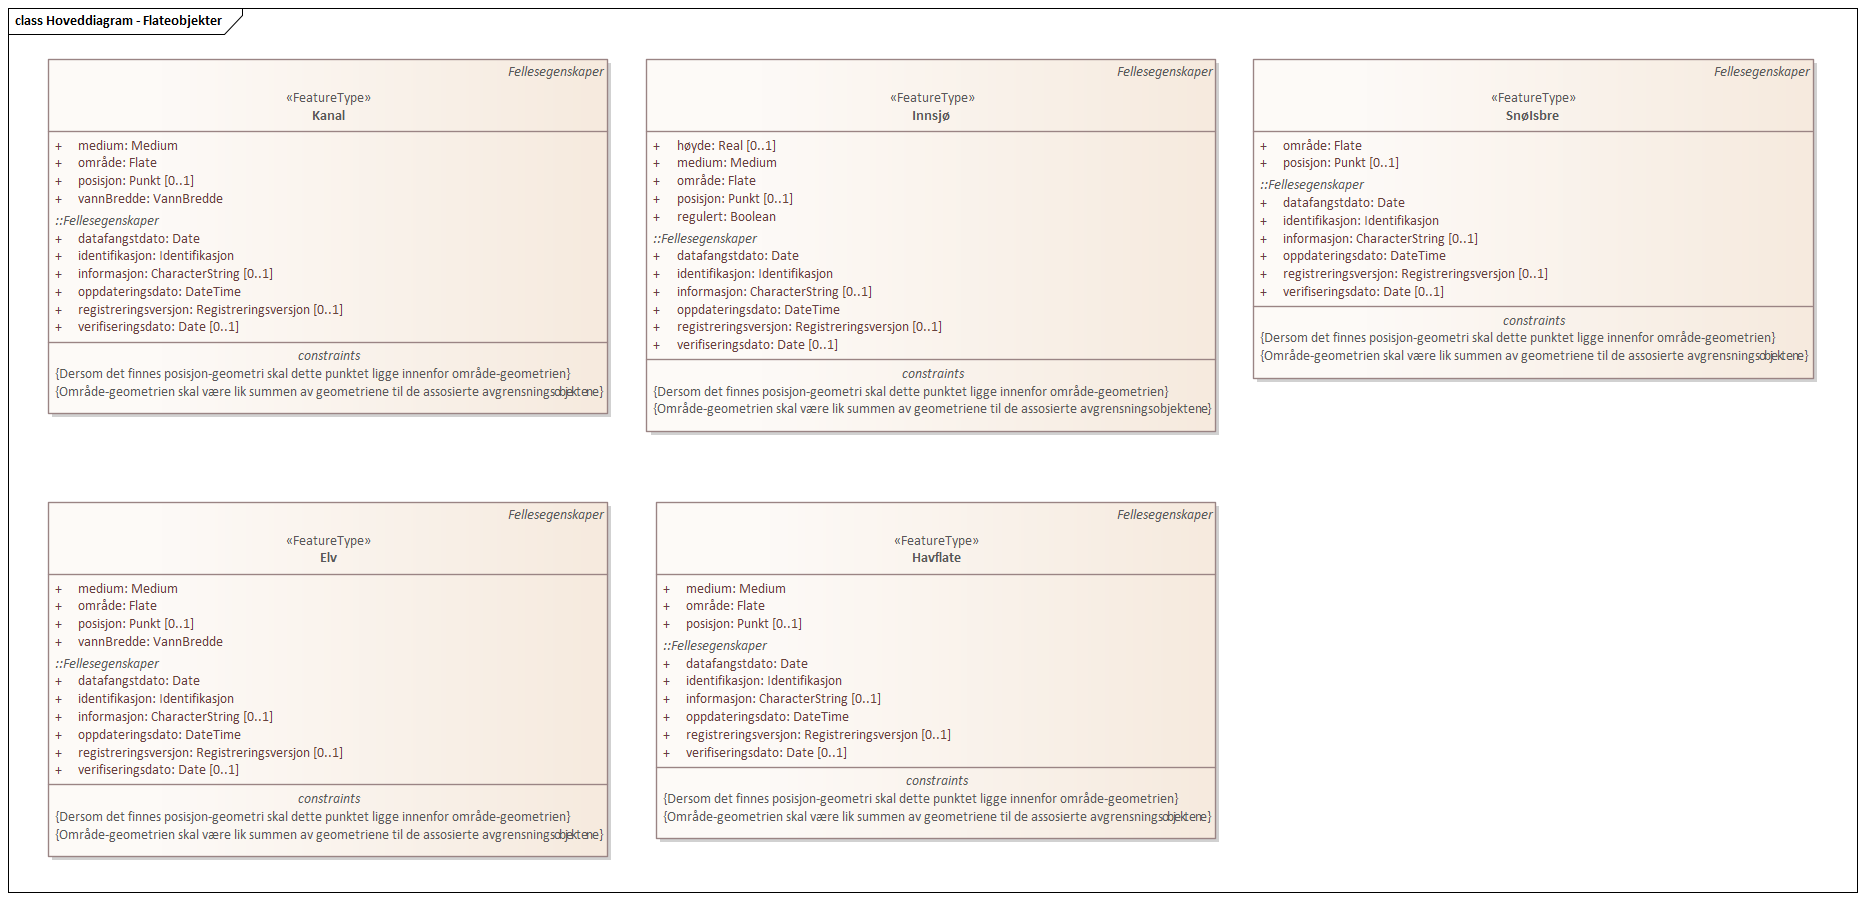
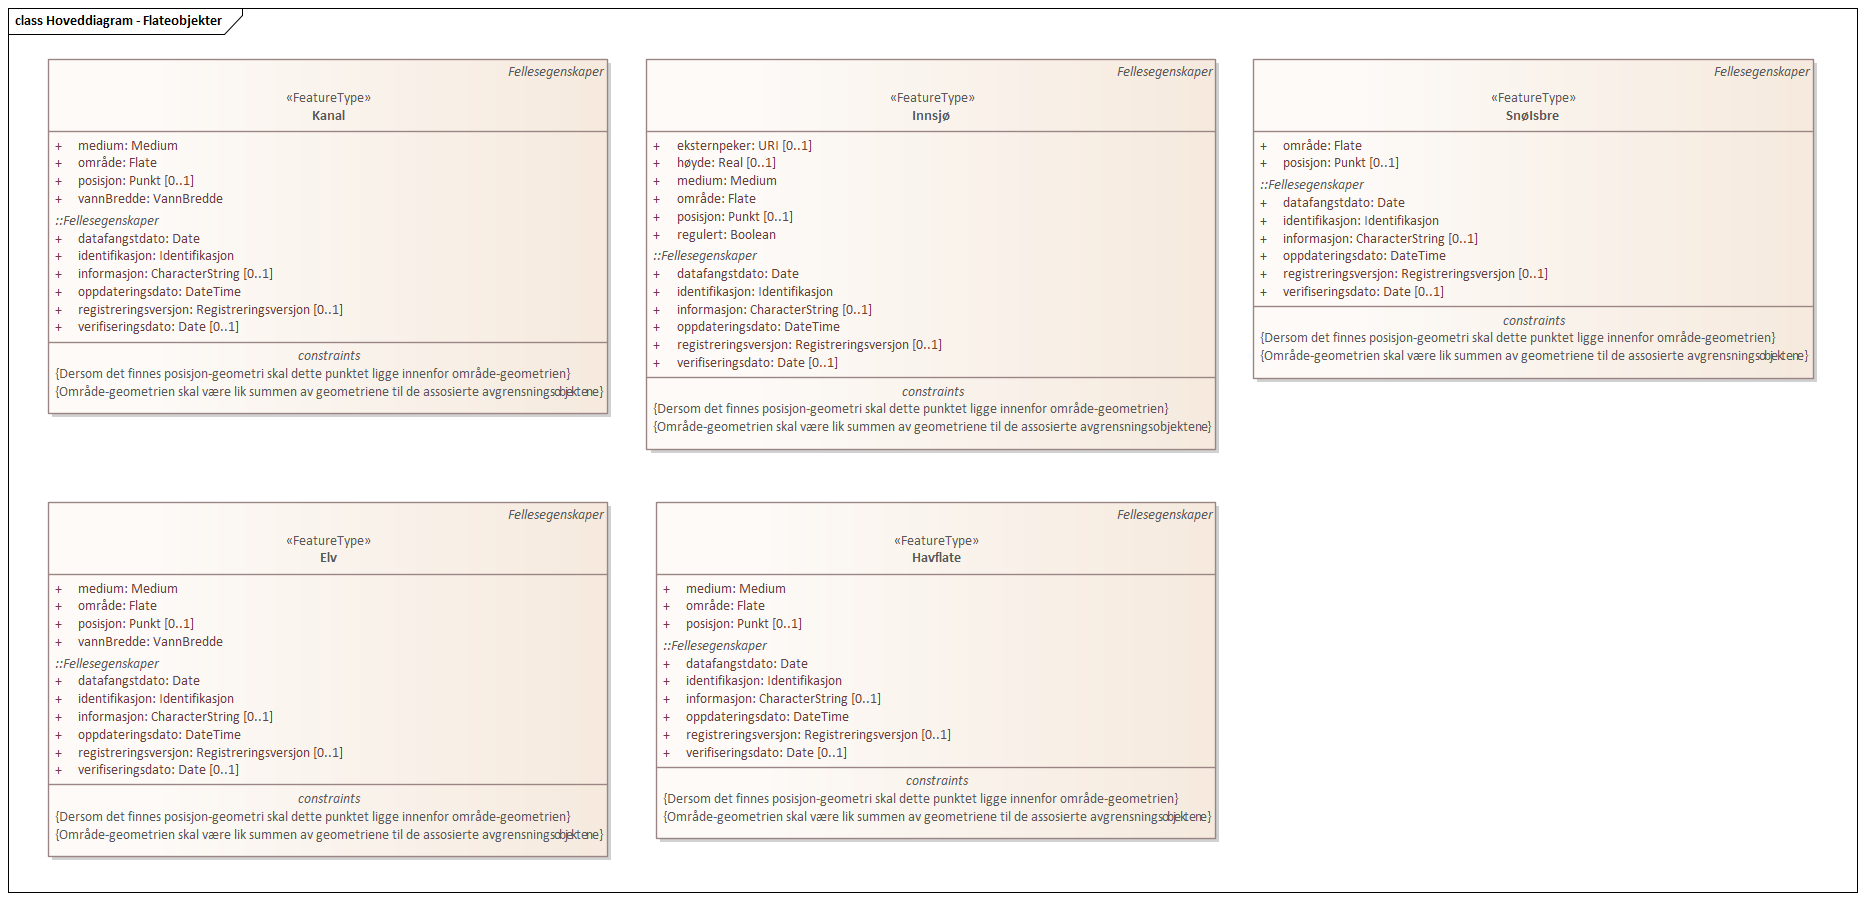
Lagt til eksternpeker på objekttype Innsjø.

Changed region(s): [[0.3419, 0.1554, 0.6527, 0.5283]]

diff --git a/produktspesifikasjoner/vann/index.html b/produktspesifikasjoner/vann/index.html
@@ -766,6 +766,9 @@ Kystkonturen er en del av FKB-Vann og fra og med FKB-Vann versjon 4.6 forvaltes 
 <p>Egenskapen regulert (JA/NEI) er innført på objekttype Innsjø for å angi om en innsjø er oppdemt/regulert</p>
 </li>
 <li>
+<p>Egeneskapen eksterpeker er innført på objekttype Innsjø for å kunne peke til informasjon som ligger i andre systemer</p>
+</li>
+<li>
 <p>Etablert eksterne kodelister for kodeverdiene til egenskapene kystkonstruksjonstype, kystreferanse, vannBredde og vannSperretype</p>
 </li>
 </ul>
@@ -1199,6 +1202,12 @@ SOSI_navn: HØYDE<br></p></td>
 <td class="tableblock halign-left valign-top"><p class="tableblock">Type:</p></td>
 <td class="tableblock halign-left valign-top"><p class="tableblock">Medium</p></td>
 </tr>
+<tr>
+<td class="tableblock halign-left valign-top"><p class="tableblock">Profilparametre i tagged values:</p></td>
+<td class="tableblock halign-left valign-top"><p class="tableblock">SOSI_datatype: T<br>
+SOSI_lengde: 1<br>
+SOSI_navn: MEDIUM<br></p></td>
+</tr>
 </tbody>
 </table>
 <table class="tableblock frame-all grid-all stretch">
@@ -1363,6 +1372,12 @@ SOSI_navn: HØYDE<br></p></td>
 <tr>
 <td class="tableblock halign-left valign-top"><p class="tableblock">Type:</p></td>
 <td class="tableblock halign-left valign-top"><p class="tableblock">Medium</p></td>
+</tr>
+<tr>
+<td class="tableblock halign-left valign-top"><p class="tableblock">Profilparametre i tagged values:</p></td>
+<td class="tableblock halign-left valign-top"><p class="tableblock">SOSI_datatype: T<br>
+SOSI_lengde: 1<br>
+SOSI_navn: MEDIUM<br></p></td>
 </tr>
 </tbody>
 </table>
@@ -1535,6 +1550,12 @@ SOSI_navn: HØYDE<br></p></td>
 <tr>
 <td class="tableblock halign-left valign-top"><p class="tableblock">Type:</p></td>
 <td class="tableblock halign-left valign-top"><p class="tableblock">Medium</p></td>
+</tr>
+<tr>
+<td class="tableblock halign-left valign-top"><p class="tableblock">Profilparametre i tagged values:</p></td>
+<td class="tableblock halign-left valign-top"><p class="tableblock">SOSI_datatype: T<br>
+SOSI_lengde: 1<br>
+SOSI_navn: MEDIUM<br></p></td>
 </tr>
 </tbody>
 </table>
@@ -1717,6 +1738,12 @@ SOSI_navn: HØYDE<br></p></td>
 <td class="tableblock halign-left valign-top"><p class="tableblock">Type:</p></td>
 <td class="tableblock halign-left valign-top"><p class="tableblock">Medium</p></td>
 </tr>
+<tr>
+<td class="tableblock halign-left valign-top"><p class="tableblock">Profilparametre i tagged values:</p></td>
+<td class="tableblock halign-left valign-top"><p class="tableblock">SOSI_datatype: T<br>
+SOSI_lengde: 1<br>
+SOSI_navn: MEDIUM<br></p></td>
+</tr>
 </tbody>
 </table>
 <table class="tableblock frame-all grid-all stretch">
@@ -1816,7 +1843,7 @@ SOSI_navn: HØYDE<br></p></td>
 <td class="tableblock halign-left valign-top"><p class="tableblock">Profilparametre i tagged values:</p></td>
 <td class="tableblock halign-left valign-top"><p class="tableblock">SOSI_datatype: H<br>
 SOSI_lengde: 1<br>
-SOSI_navn: VANNBREDDE<br></p></td>
+SOSI_navn: VANNBR<br></p></td>
 </tr>
 </tbody>
 </table>
@@ -1841,6 +1868,12 @@ SOSI_navn: VANNBREDDE<br></p></td>
 <tr>
 <td class="tableblock halign-left valign-top"><p class="tableblock">Type:</p></td>
 <td class="tableblock halign-left valign-top"><p class="tableblock">Medium</p></td>
+</tr>
+<tr>
+<td class="tableblock halign-left valign-top"><p class="tableblock">Profilparametre i tagged values:</p></td>
+<td class="tableblock halign-left valign-top"><p class="tableblock">SOSI_datatype: T<br>
+SOSI_lengde: 1<br>
+SOSI_navn: MEDIUM<br></p></td>
 </tr>
 </tbody>
 </table>
@@ -1999,6 +2032,12 @@ SOSI_navn: VANNBREDDE<br></p></td>
 <td class="tableblock halign-left valign-top"><p class="tableblock">Type:</p></td>
 <td class="tableblock halign-left valign-top"><p class="tableblock">Medium</p></td>
 </tr>
+<tr>
+<td class="tableblock halign-left valign-top"><p class="tableblock">Profilparametre i tagged values:</p></td>
+<td class="tableblock halign-left valign-top"><p class="tableblock">SOSI_datatype: T<br>
+SOSI_lengde: 1<br>
+SOSI_navn: MEDIUM<br></p></td>
+</tr>
 </tbody>
 </table>
 <table class="tableblock frame-all grid-all stretch">
@@ -2094,6 +2133,12 @@ SOSI_navn: VANNBREDDE<br></p></td>
 <td class="tableblock halign-left valign-top"><p class="tableblock">Type:</p></td>
 <td class="tableblock halign-left valign-top"><p class="tableblock">Medium</p></td>
 </tr>
+<tr>
+<td class="tableblock halign-left valign-top"><p class="tableblock">Profilparametre i tagged values:</p></td>
+<td class="tableblock halign-left valign-top"><p class="tableblock">SOSI_datatype: T<br>
+SOSI_lengde: 1<br>
+SOSI_navn: MEDIUM<br></p></td>
+</tr>
 </tbody>
 </table>
 <table class="tableblock frame-all grid-all stretch">
@@ -2122,7 +2167,7 @@ SOSI_navn: VANNBREDDE<br></p></td>
 <td class="tableblock halign-left valign-top"><p class="tableblock">Profilparametre i tagged values:</p></td>
 <td class="tableblock halign-left valign-top"><p class="tableblock">SOSI_datatype: H<br>
 SOSI_lengde: 1<br>
-SOSI_navn: VANNBREDDE<br></p></td>
+SOSI_navn: VANNBR<br></p></td>
 </tr>
 </tbody>
 </table>
@@ -2285,6 +2330,12 @@ for innsj&#248; som er oppdemt/regulert skal konturlinjen ligge i h&#248;ydeniv&
 <td class="tableblock halign-left valign-top"><p class="tableblock">Type:</p></td>
 <td class="tableblock halign-left valign-top"><p class="tableblock">Medium</p></td>
 </tr>
+<tr>
+<td class="tableblock halign-left valign-top"><p class="tableblock">Profilparametre i tagged values:</p></td>
+<td class="tableblock halign-left valign-top"><p class="tableblock">SOSI_datatype: T<br>
+SOSI_lengde: 1<br>
+SOSI_navn: MEDIUM<br></p></td>
+</tr>
 </tbody>
 </table>
 <table class="tableblock frame-all grid-all stretch">
@@ -2440,6 +2491,12 @@ SOSI_navn: HØYDE<br></p></td>
 <td class="tableblock halign-left valign-top"><p class="tableblock">Type:</p></td>
 <td class="tableblock halign-left valign-top"><p class="tableblock">Medium</p></td>
 </tr>
+<tr>
+<td class="tableblock halign-left valign-top"><p class="tableblock">Profilparametre i tagged values:</p></td>
+<td class="tableblock halign-left valign-top"><p class="tableblock">SOSI_datatype: T<br>
+SOSI_lengde: 1<br>
+SOSI_navn: MEDIUM<br></p></td>
+</tr>
 </tbody>
 </table>
 <table class="tableblock frame-all grid-all stretch">
@@ -2466,7 +2523,32 @@ SOSI_navn: HØYDE<br></p></td>
 </tr>
 <tr>
 <td class="tableblock halign-left valign-top"><p class="tableblock">Profilparametre i tagged values:</p></td>
-<td class="tableblock halign-left valign-top"><p class="tableblock">SOSI_navn: REGULERT<br></p></td>
+<td class="tableblock halign-left valign-top"><p class="tableblock">SOSI_datatype: BOOLSK<br>
+SOSI_navn: REGULERT<br></p></td>
+</tr>
+</tbody>
+</table>
+<table class="tableblock frame-all grid-all stretch">
+<colgroup>
+<col style="width: 20%;">
+<col style="width: 80%;">
+</colgroup>
+<tbody>
+<tr>
+<td class="tableblock halign-left valign-top"><p class="tableblock"><strong>Navn:</strong></p></td>
+<td class="tableblock halign-left valign-top"><p class="tableblock"><strong>eksternpeker</strong></p></td>
+</tr>
+<tr>
+<td class="tableblock halign-left valign-top"><p class="tableblock">Definisjon:</p></td>
+<td class="tableblock halign-left valign-top"><p class="tableblock">peker til eksternt system som inneholder mer informasjon om objekttypen</p></td>
+</tr>
+<tr>
+<td class="tableblock halign-left valign-top"><p class="tableblock">Multiplisitet:</p></td>
+<td class="tableblock halign-left valign-top"><p class="tableblock">[0..1]</p></td>
+</tr>
+<tr>
+<td class="tableblock halign-left valign-top"><p class="tableblock">Type:</p></td>
+<td class="tableblock halign-left valign-top"><p class="tableblock">URI</p></td>
 </tr>
 </tbody>
 </table>
@@ -2655,6 +2737,12 @@ SOSI_navn: VANNBREDDE<br></p></td>
 <td class="tableblock halign-left valign-top"><p class="tableblock">Type:</p></td>
 <td class="tableblock halign-left valign-top"><p class="tableblock">Medium</p></td>
 </tr>
+<tr>
+<td class="tableblock halign-left valign-top"><p class="tableblock">Profilparametre i tagged values:</p></td>
+<td class="tableblock halign-left valign-top"><p class="tableblock">SOSI_datatype: T<br>
+SOSI_lengde: 1<br>
+SOSI_navn: MEDIUM<br></p></td>
+</tr>
 </tbody>
 </table>
 <table class="tableblock frame-all grid-all stretch">
@@ -2730,7 +2818,7 @@ SOSI_navn: VANNBREDDE<br></p></td>
 <td class="tableblock halign-left valign-top"><p class="tableblock">Profilparametre i tagged values:</p></td>
 <td class="tableblock halign-left valign-top"><p class="tableblock">SOSI_datatype: H<br>
 SOSI_lengde: 1<br>
-SOSI_NAVN: VANNBREDDE<br></p></td>
+SOSI_navn: VANNBR<br></p></td>
 </tr>
 </tbody>
 </table>
@@ -2755,6 +2843,12 @@ SOSI_NAVN: VANNBREDDE<br></p></td>
 <tr>
 <td class="tableblock halign-left valign-top"><p class="tableblock">Type:</p></td>
 <td class="tableblock halign-left valign-top"><p class="tableblock">Medium</p></td>
+</tr>
+<tr>
+<td class="tableblock halign-left valign-top"><p class="tableblock">Profilparametre i tagged values:</p></td>
+<td class="tableblock halign-left valign-top"><p class="tableblock">SOSI_datatype: T<br>
+SOSI_lengde: 1<br>
+SOSI_navn: MEDIUM<br></p></td>
 </tr>
 </tbody>
 </table>
@@ -3078,7 +3172,7 @@ SOSI_NAVN: VANNBREDDE<br></p></td>
 <td class="tableblock halign-left valign-top"><p class="tableblock">Profilparametre i tagged values:</p></td>
 <td class="tableblock halign-left valign-top"><p class="tableblock">SOSI_datatype: T<br>
 SOSI_lengde: 30<br>
-SOSI_NAVN: VANN_SPERRETYPE<br></p></td>
+SOSI_navn: VANN_SPERRETYPE<br></p></td>
 </tr>
 </tbody>
 </table>
@@ -3724,7 +3818,8 @@ Egenskapen beskriver datafangstmetode for grunnrisskoordinater (x,y), eller for 
 </tr>
 <tr>
 <td class="tableblock halign-left valign-top"><p class="tableblock">Profilparametre i tagged values:</p></td>
-<td class="tableblock halign-left valign-top"><p class="tableblock">SOSI_lengde: 3<br>
+<td class="tableblock halign-left valign-top"><p class="tableblock">SOSI_datatype: T<br>
+SOSI_lengde: 3<br>
 SOSI_navn: DATAFANGSTMETODE<br></p></td>
 </tr>
 </tbody>
@@ -3816,7 +3911,8 @@ SOSI_navn: SYNBARHET<br></p></td>
 </tr>
 <tr>
 <td class="tableblock halign-left valign-top"><p class="tableblock">Profilparametre i tagged values:</p></td>
-<td class="tableblock halign-left valign-top"><p class="tableblock">SOSI_lengde: 3<br>
+<td class="tableblock halign-left valign-top"><p class="tableblock">SOSI_datatype: T<br>
+SOSI_lengde: 3<br>
 SOSI_navn: DATAFANGSTMETODEHØYDE<br></p></td>
 </tr>
 </tbody>
@@ -5830,6 +5926,12 @@ EPSG Geodetic Parameter Dataset, version 8.0, august 2012</p>
 <td class="tableblock halign-left valign-top"><p class="tableblock">[1..1]</p></td>
 </tr>
 <tr>
+<td class="tableblock halign-left valign-top"><p class="tableblock">eksternpeker</p></td>
+<td class="tableblock halign-left valign-top"><p class="tableblock">URI</p></td>
+<td class="tableblock halign-left valign-top"><p class="tableblock">..EKSTERNPEKER</p></td>
+<td class="tableblock halign-left valign-top"><p class="tableblock">[0..1]</p></td>
+</tr>
+<tr>
 <td class="tableblock halign-left valign-top"><p class="tableblock">avgrensesAvInnsjøkant</p></td>
 <td class="tableblock halign-left valign-top"><p class="tableblock">«FeatureType» Innsjøkant</p></td>
 <td class="tableblock halign-left valign-top"><p class="tableblock">..</p></td>
@@ -7137,7 +7239,7 @@ Informasjon, fortrinnsvis av informativ art, som kan være nyttig for brukere, s
 </div>
 <div id="footer">
 <div id="footer-text">
-Last updated 2021-09-15 17:48:49 +0200
+Last updated 2021-09-17 15:49:07 +0200
 </div>
 </div>
 <link rel="stylesheet" href="https://cdnjs.cloudflare.com/ajax/libs/highlight.js/9.15.6/styles/github.min.css">
